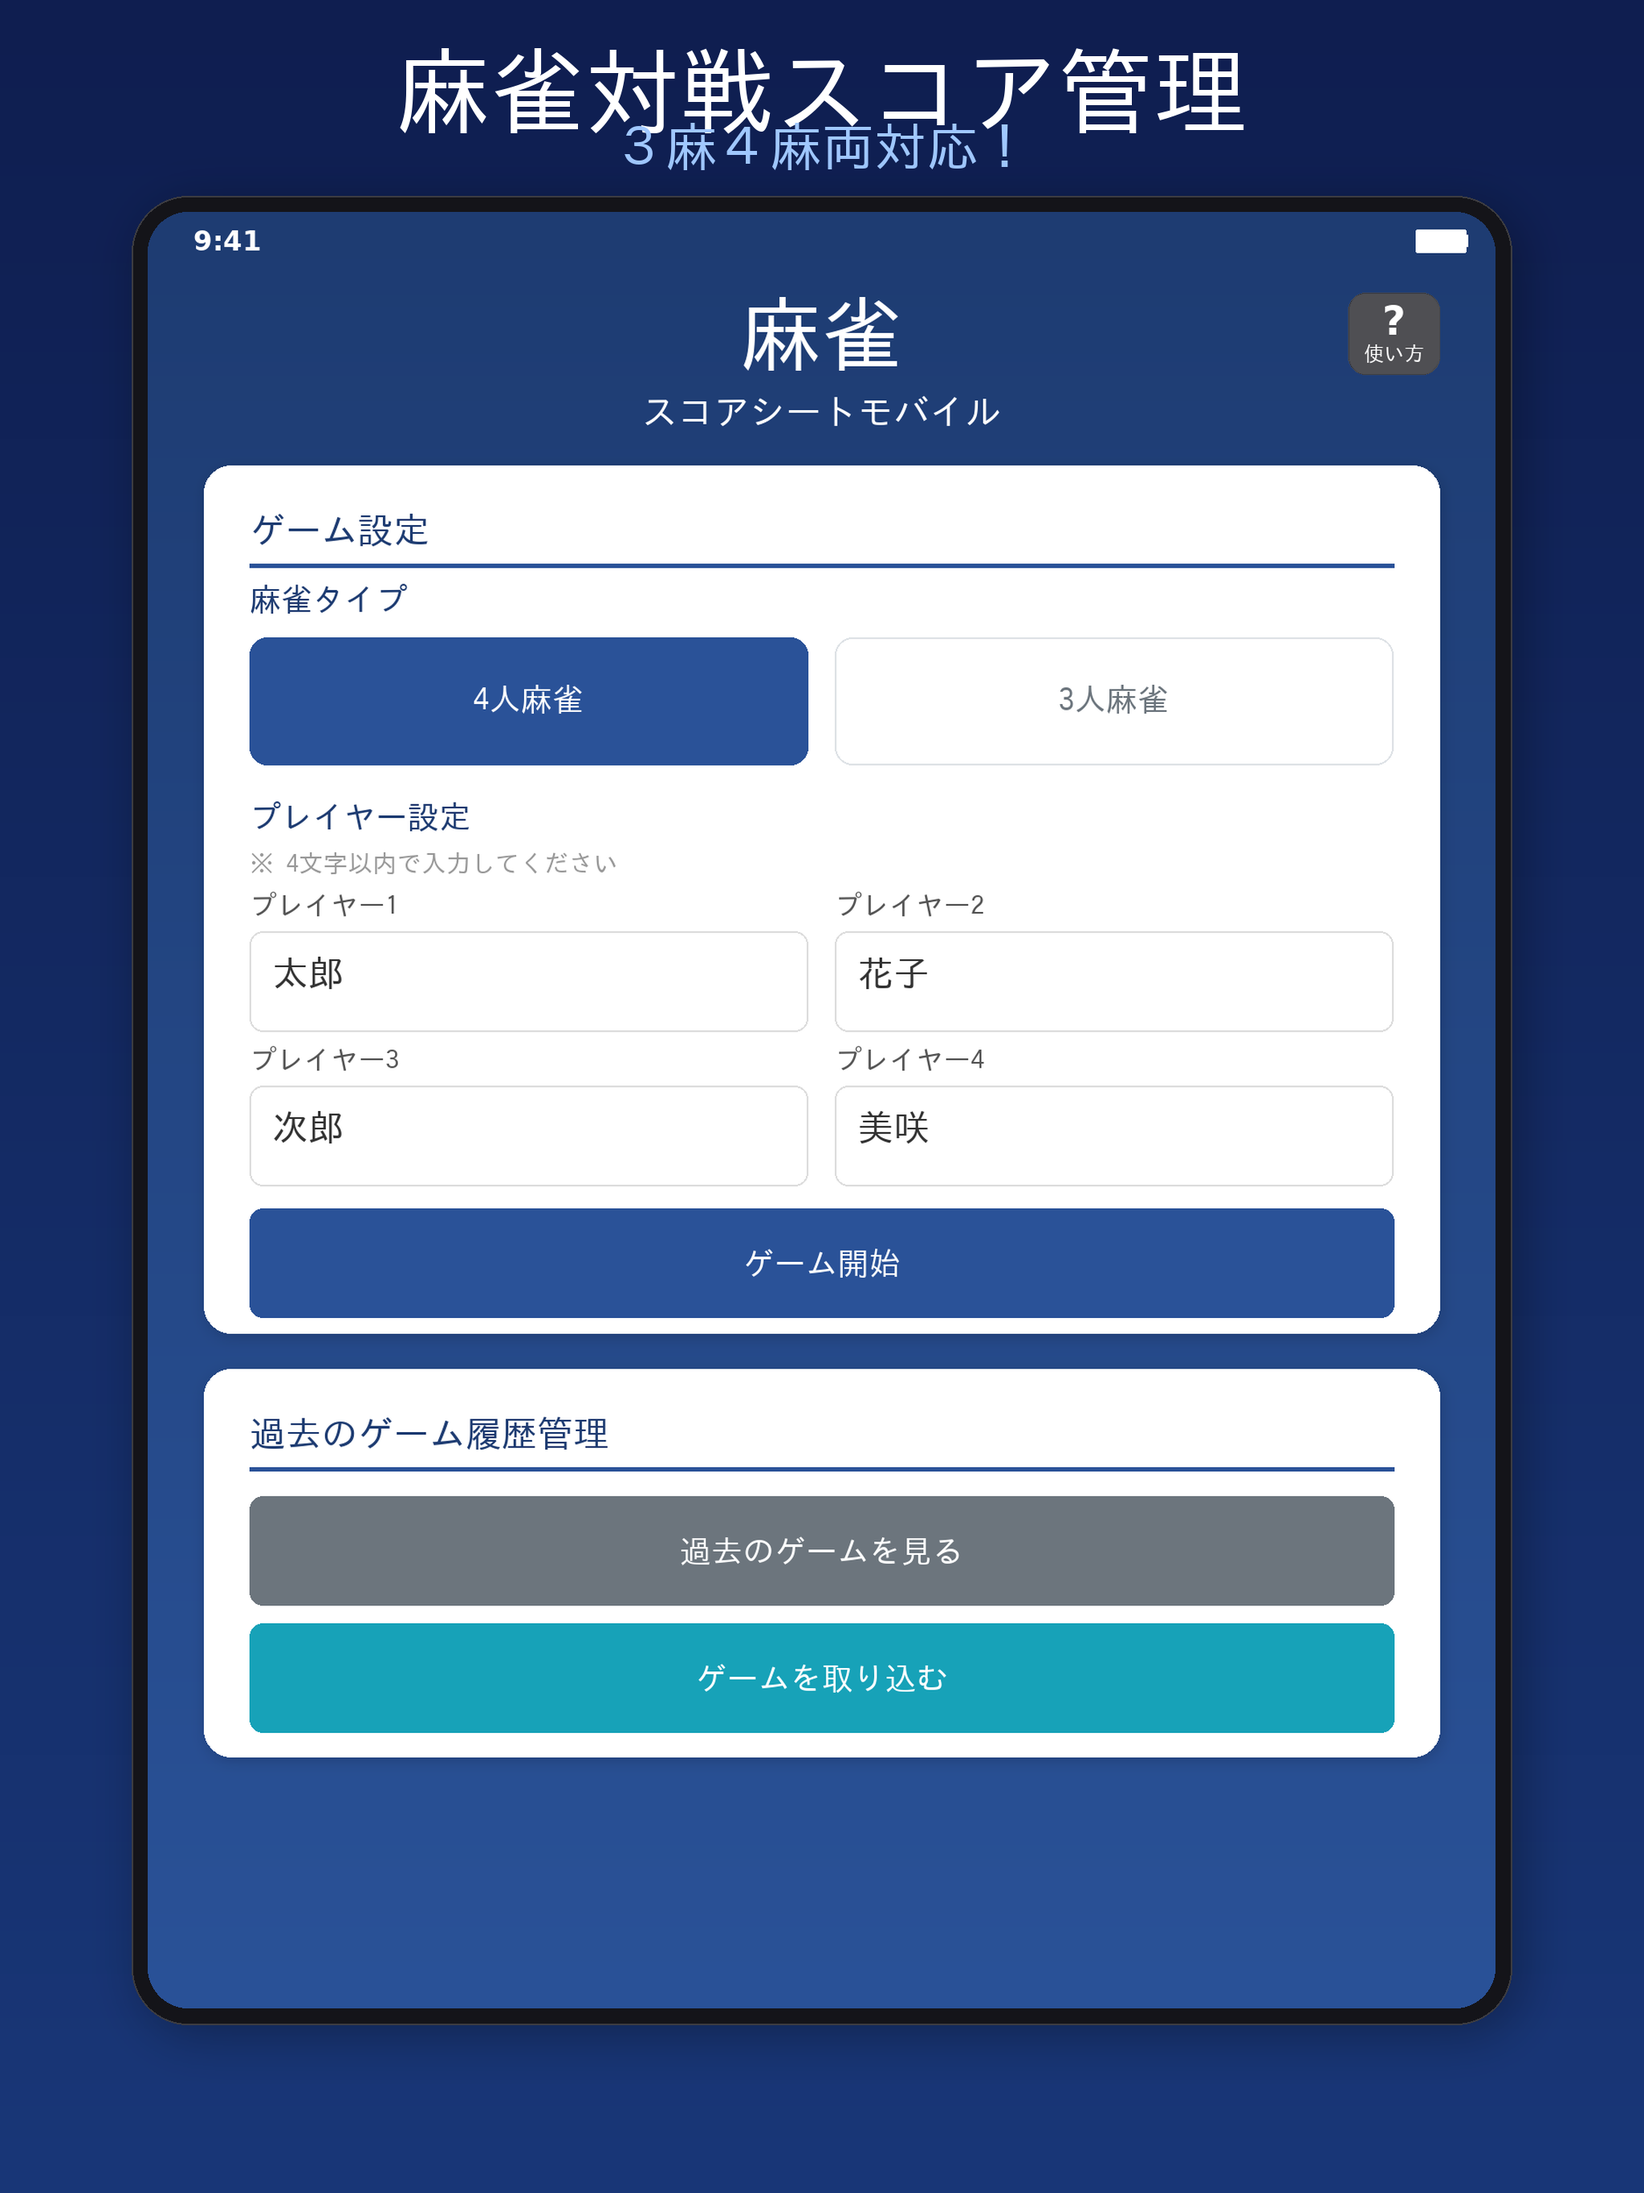
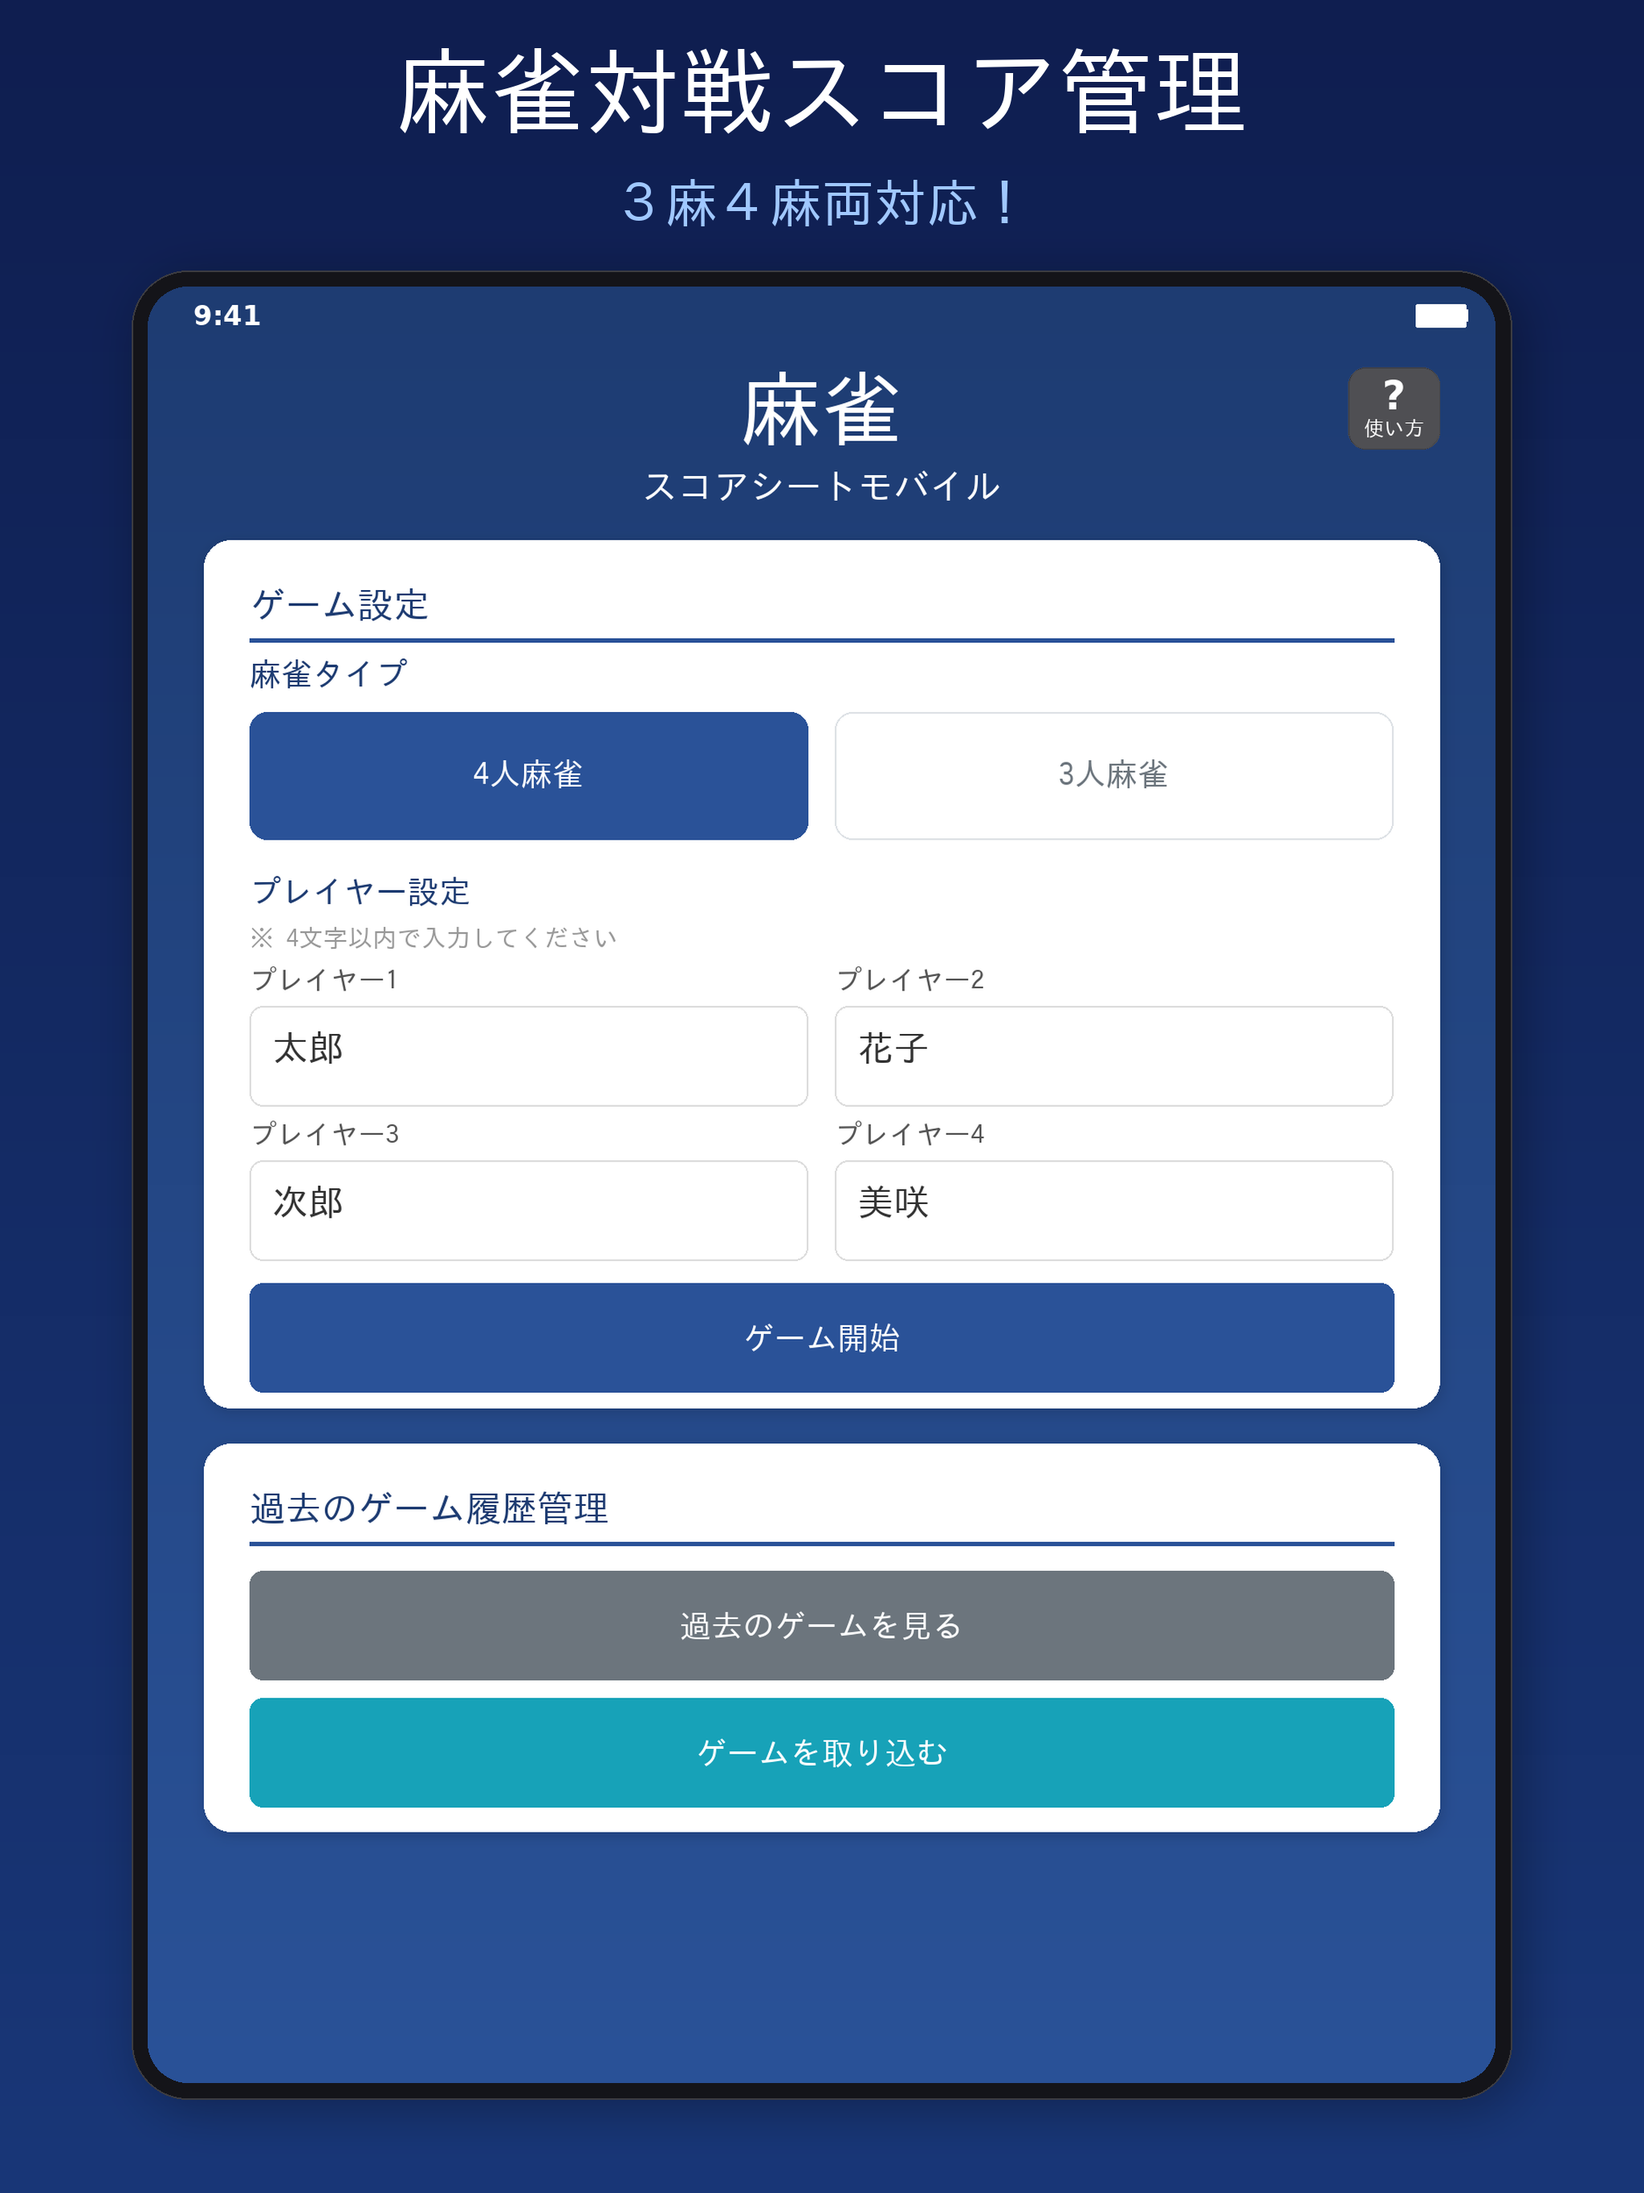
fix: iPadプロモーション画像のタイトル/サブタイトルの文字重なりを修正
フォントサイズに基づいた行間計算に変更し、iPad(2048x2732)の
大きいフォントでも文字が重ならないよう修正

https://claude.ai/code/session_01Q6nhLi3LEqTLgYHiVa6uSf

Changed region(s): [[0.0625, 0.0622, 0.9375, 0.84], [0.0625, 0.9023, 0.9375, 0.9645], [0.6562, 0.3111, 0.7188, 0.3734]]

diff --git a/generate_assets.py b/generate_assets.py
@@ -465,14 +465,16 @@ def create_promo_frame(phone_img, title_text=None, subtitle_text=None, config=IP
 
     # Title text
     if title_text:
-        tf = font(int(promo_w * 0.058), jp=True)
+        title_font_size = int(promo_w * 0.058)
+        tf = font(title_font_size, jp=True)
         draw_centered_text(draw, title_text, promo_w // 2, top_y, tf, WHITE)
-        top_y += int(promo_h * 0.035)
+        top_y += int(title_font_size * 1.4)
 
     if subtitle_text:
-        sf = font(int(promo_w * 0.032), jp=True)
+        sub_font_size = int(promo_w * 0.032)
+        sf = font(sub_font_size, jp=True)
         draw_centered_text(draw, subtitle_text, promo_w // 2, top_y, sf, (160, 200, 255))
-        top_y += int(promo_h * 0.025)
+        top_y += int(sub_font_size * 1.4)
 
     # Device frame
     phone_w = int(promo_w * 0.82)
